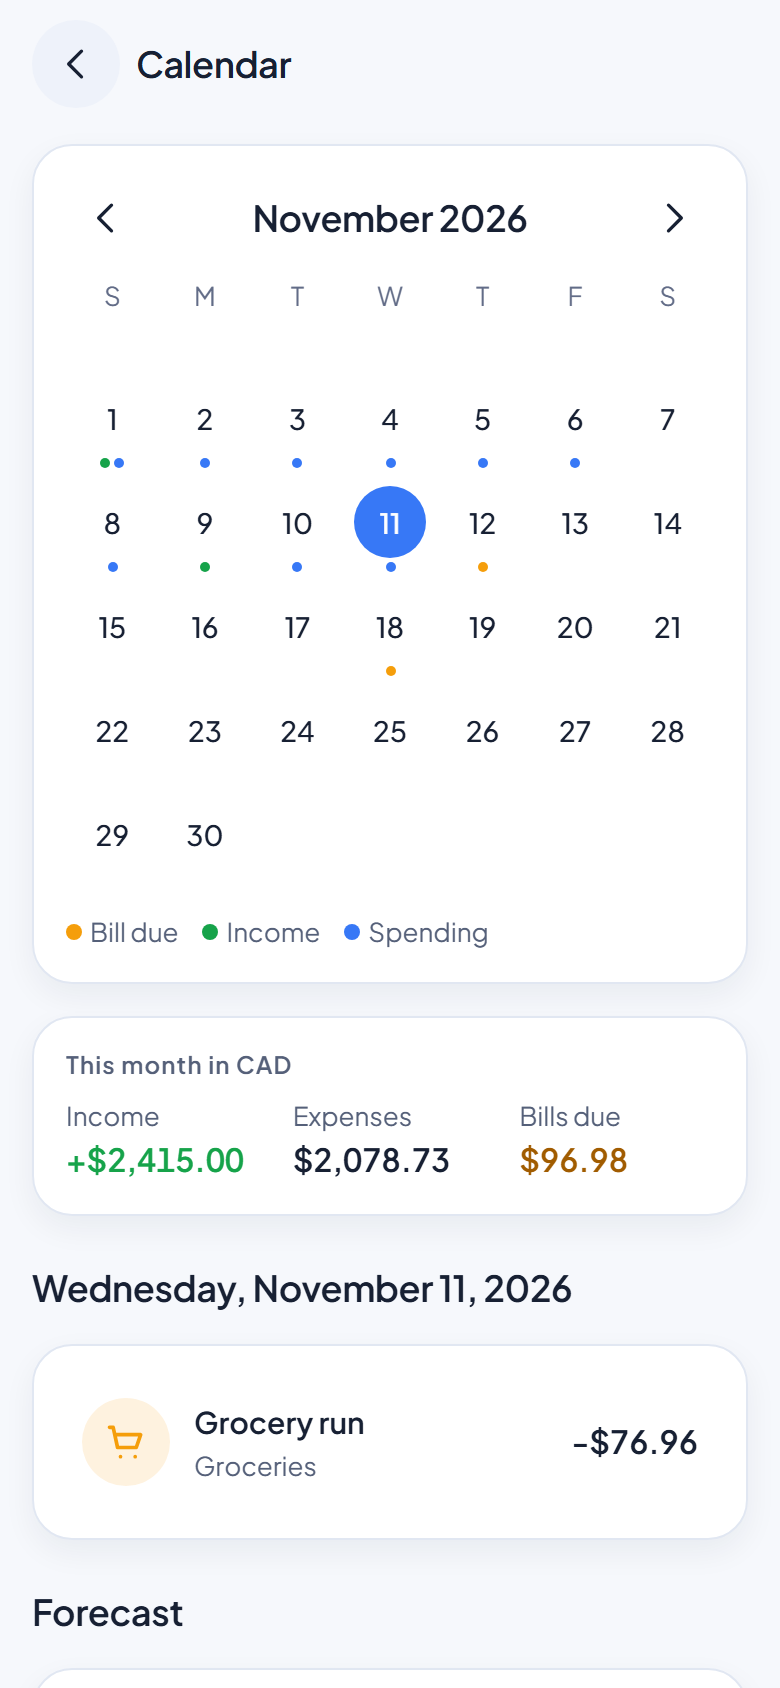
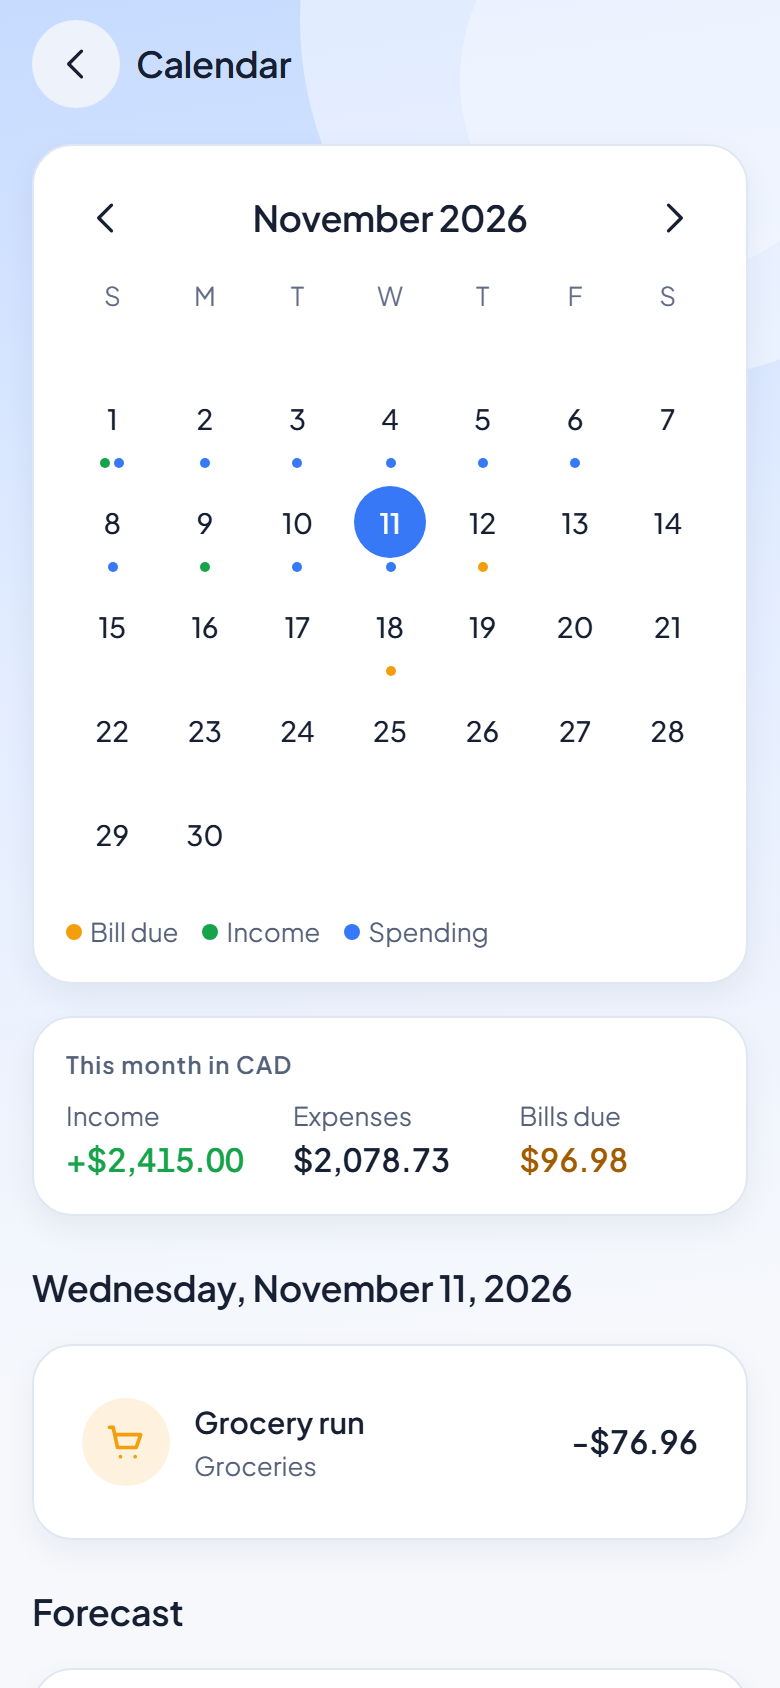
Export checks, refreshed screenshots, final handoff
Web and Android exports pass; layout sweep clean on 14 screens; audit
findings documented (test tooling only); screenshot script waits for the
splash.

Changed region(s): [[0.0, 0.0, 0.4308, 0.3389], [0.9538, 0.2156, 1.0, 0.2773]]

diff --git a/docs/AGENT_HANDOFF.md b/docs/AGENT_HANDOFF.md
@@ -37,8 +37,7 @@ Architecture, money rules and design identity: `docs/ARCHITECTURE.md`.
 
 ## Pending (priority order)
 
-1. Quality gate leftovers: `npm audit` review (`vizam-dependency-audit-fix`), secret scan,
-   `vizam-mobile-export-check` (web export + Android bundle), full screenshot refresh (`node scripts/screenshots.mjs`).
+1. Secret scan of git history before the first push (no keys were ever written; `.env` is git-ignored).
 2. Device test in Expo Go (SQLite, notifications, document picker, CSV share) — not possible from this machine.
 3. Steeven's items below, then an end-to-end cloud sync test against a real Supabase project.
 4. Importer: test against a real (anonymised) bank export; OFX/QFX import; quick-add favourites.
@@ -46,16 +45,18 @@ Architecture, money rules and design identity: `docs/ARCHITECTURE.md`.
 
 ## Last verified checks (2026-11-11, branch feat/screens)
 
-| Check                   | Command                                      | Result                                                                                     |
-| ----------------------- | -------------------------------------------- | ------------------------------------------------------------------------------------------ |
-| Typecheck               | `npx tsc --noEmit`                           | pass                                                                                       |
-| Lint                    | `npm run lint`                               | pass (0 errors, 0 warnings)                                                                |
-| All tests               | `npm test` (app + db projects)               | 21 suites, 268 tests passed                                                                |
-| DB / RLS                | included above (`npm run test:db` alone: 43) | pass                                                                                       |
-| Import flow on web      | `node scripts/screenshots-import.mjs`        | pass: paste → columns → review → import, light/dark/300 px, no overflow, no console errors |
-| Layout sweep            | `node scripts/screenshots.mjs`               | earlier run (before currencies/import): 0 overflow 300–1440 px, 240 px lock OK             |
-| Screenshots             | `docs/screenshots/`                          | key screens, splash, sky and import steps reviewed (light + dark)                          |
-| npm audit, export check | —                                            | not run                                                                                    |
+| Check              | Command                                               | Result                                                                                                                                                                                                  |
+| ------------------ | ----------------------------------------------------- | ------------------------------------------------------------------------------------------------------------------------------------------------------------------------------------------------------- |
+| Typecheck          | `npx tsc --noEmit`                                    | pass                                                                                                                                                                                                    |
+| Lint               | `npm run lint`                                        | pass (0 errors, 0 warnings)                                                                                                                                                                             |
+| All tests          | `npm test` (app + db projects)                        | 21 suites, 268 tests passed                                                                                                                                                                             |
+| DB / RLS           | included above (`npm run test:db` alone: 43)          | pass                                                                                                                                                                                                    |
+| Import flow on web | `node scripts/screenshots-import.mjs`                 | pass: paste → columns → review → import, light/dark/300 px, no overflow, no console errors                                                                                                              |
+| Layout sweep       | `node scripts/screenshots.mjs`                        | earlier run (before currencies/import): 0 overflow 300–1440 px, 240 px lock OK                                                                                                                          |
+| Screenshots        | `docs/screenshots/`                                   | key screens, splash, sky and import steps reviewed (light + dark)                                                                                                                                       |
+| Web export         | `npx expo export --platform web`                      | pass                                                                                                                                                                                                    |
+| Android export     | `npx expo export --platform android` (TMP in `.tmp/`) | pass, Hermes bytecode bundle                                                                                                                                                                            |
+| npm audit          | `npm audit --omit=dev`                                | 3 advisories kept (1 low, 2 moderate: deepmerge, glob, minimatch) — all via Jest test tooling, not in the app bundle; only fix is `--force` (downgrades Expo). Recheck after the next Expo/Jest update. |
 
 ## Known issues and risks
 
@@ -74,8 +75,8 @@ Architecture, money rules and design identity: `docs/ARCHITECTURE.md`.
 
 ## Next step
 
-Run `vizam-mobile-export-check` (web export + Android bundle) and `npm audit`, fix what they find, refresh all
-screenshots with `node scripts/screenshots.mjs`, then hand the batched list below to Steeven.
+Steeven's batched items below. Then: device test in Expo Go, end-to-end cloud sync test on the real Supabase
+project, and the importer against a real anonymised bank export.
 
 ## Waiting for approval / Steeven only
 

diff --git a/docs/PROJECT_PLAN.md b/docs/PROJECT_PLAN.md
@@ -53,20 +53,20 @@ Risks / needs from Steeven (batched at the end): hosted Supabase project + keys 
 
 ### Phase 2 — screens (two Sonnet agents in parallel, disjoint files) ~600-850k
 
-- [ ] 2A Onboarding, Auth, Dashboard, Income overview, Expenses, Activity (search/filter), Transaction details,
+- [x] 2A Onboarding, Auth, Dashboard, Income overview, Expenses, Activity (search/filter), Transaction details,
       Add/edit transaction. (Sonnet, ~300-420k)
-- [ ] 2B Budgets, Budget category details, Savings goals (+ detail/contribute), Recurring bills, Financial calendar,
+- [x] 2B Budgets, Budget category details, Savings goals (+ detail/contribute), Recurring bills, Financial calendar,
       Reports & analytics (+ CSV export), Notifications, Settings & currencies. (Sonnet, ~300-420k)
 
 ### Phase 3 — integration and QA (main session) ~250-350k
 
-- [ ] 3.1 Review both slices, fix integration issues, local notifications for bills/budgets.
-- [ ] 3.2 Quality gate: tsc, lint, prettier, jest, npm audit, secret scan, web layout at 240/390/768/1440.
-- [ ] 3.3 Screenshots of key screens in light and dark (web, Playwright), reviewed and fixed.
+- [x] 3.1 Review both slices, fix integration issues, local notifications for bills/budgets.
+- [x] 3.2 Quality gate: tsc, lint, prettier, jest, npm audit, secret scan, web layout at 240/390/768/1440.
+- [x] 3.3 Screenshots of key screens in light and dark (web, Playwright), reviewed and fixed.
 
 ### Phase 4 — delivery ~20k
 
-- [ ] 4.1 `docs/AGENT_HANDOFF.md` with exact next steps and the batched ask for Steeven.
+- [x] 4.1 `docs/AGENT_HANDOFF.md` with exact next steps and the batched ask for Steeven.
 
 ## Decisions
 
@@ -75,3 +75,9 @@ Risks / needs from Steeven (batched at the end): hosted Supabase project + keys 
 - Accounts are user-defined "wallets" (cash, chequing, savings…) with a currency. No bank connection, no card
   brands, no account numbers.
 - Deferred / rejected: real banking, payments, transfers between users, receipts OCR.
+
+## Changes approved during the build (2026-11-11)
+
+- Blue-sky gradient background on every screen; bluer dark mode; animated splash.
+- More currencies (10) with a currency picker.
+- Bank CSV import (paste or file, column matching, remembered layouts, duplicates, category rules, undo).
